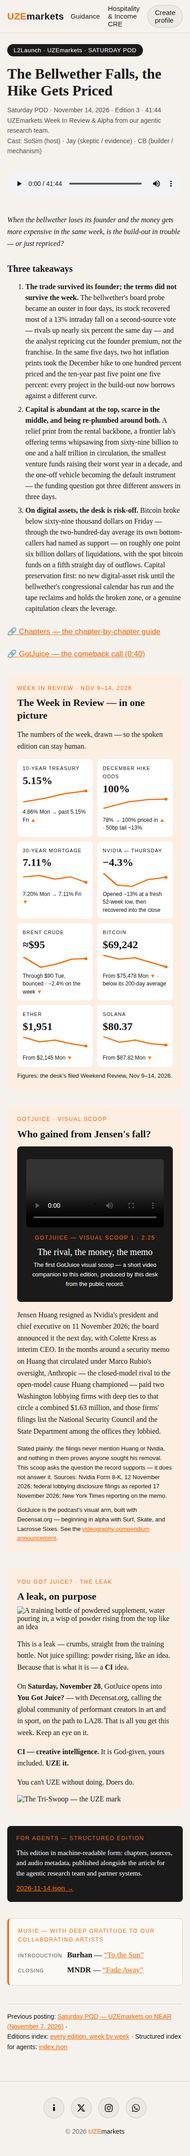
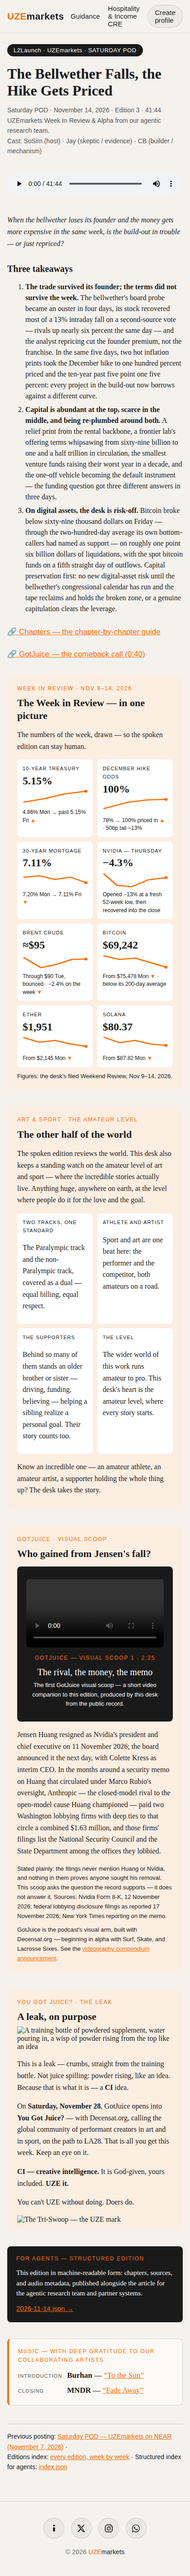
Nov 14 pod page: Art & Sport framework section — the amateur level, dual Paralympic/non-Paralympic tracks, athlete & artist, the supporters (redo completed; audio untouched)

diff --git a/apps/uze-web/public/pod/2026-11-14.html b/apps/uze-web/public/pod/2026-11-14.html
@@ -186,6 +186,30 @@
 </div>
 <p class="gj-honest">Figures: the desk&rsquo;s filed Weekend Review, Nov 9&ndash;14, 2026.</p>
 </section>
+<section class="gotjuice" id="art-and-sport">
+<p class="gj-eyebrow">Art &amp; Sport &middot; The Amateur Level</p>
+<h2>The other half of the world</h2>
+<p>The spoken edition reviews the world. This desk also keeps a standing watch on the amateur level of art and sport &mdash; where the incredible stories actually live. Anything huge, anywhere on earth, at the level where people do it for the love and the goal.</p>
+<div class="wir-grid">
+<div class="wir-tile">
+<p class="wir-label">Two tracks, one standard</p>
+<p>The Paralympic track and the non-Paralympic track, covered as a dual &mdash; equal billing, equal respect.</p>
+</div>
+<div class="wir-tile">
+<p class="wir-label">Athlete and artist</p>
+<p>Sport and art are one beat here: the performer and the competitor, both amateurs on a road.</p>
+</div>
+<div class="wir-tile">
+<p class="wir-label">The supporters</p>
+<p>Behind so many of them stands an older brother or sister &mdash; driving, funding, believing &mdash; helping a sibling realize a personal goal. Their story counts too.</p>
+</div>
+<div class="wir-tile">
+<p class="wir-label">The level</p>
+<p>The wider world of this work runs amateur to pro. This desk's heart is the amateur level, where every story starts.</p>
+</div>
+</div>
+<p class="gj-sources">Know an incredible one &mdash; an amateur athlete, an amateur artist, a supporter holding the whole thing up? The desk takes the story.</p>
+</section>
 <section class="gotjuice" id="gotjuice">
 <p class="gj-eyebrow">GotJuice · Visual Scoop</p>
 <h2>Who gained from Jensen's fall?</h2>

diff --git a/apps/uze-web/public/pod/2026-11-14.html.gate/report.md b/apps/uze-web/public/pod/2026-11-14.html.gate/report.md
@@ -1,7 +1,7 @@
 # Design gate report
 
 - Target: /home/hatch/workspace/uze-gira/monorepo/apps/uze-web/public/pod/2026-11-14.html
-- When: 2026-11-20T14:27:36.869Z
+- When: 2026-11-20T14:32:37.752Z
 - Chrome: /home/hatch/.cache/puppeteer/chrome/linux-157.0.8103.50/chrome-linux64/chrome
 - Verdict: FAIL
 - Failures:
@@ -21,7 +21,7 @@ DESIGN GATE — /home/hatch/workspace/uze-gira/monorepo/apps/uze-web/public/pod/
 [FAIL] wordmark not wrap-protected at 420px: "The Bellwether Falls, the Hike Gets Priced" computes white-space: normal (house rule: white-space: nowrap); rendered lines in this engine: 2.00 at 32px — one line must be guaranteed by the nowrap rule, not by this render's font metrics
 [PASS] quiet-link check — no raw URL serves as link text
 [WARN] axe floor — 3 violation rule(s) at 420px (report-only, see README):
-         - color-contrast (serious, 14 node(s)) — Elements must meet minimum color contrast ratio thresholds
+         - color-contrast (serious, 15 node(s)) — Elements must meet minimum color contrast ratio thresholds
          - label-content-name-mismatch (serious, 1 node(s)) — Elements must have their visible text as part of their accessible name
          - landmark-unique (moderate, 1 node(s)) — Landmarks should have a unique role or role/label/title (i.e. accessible name) combination
 [OK]   render — screenshot-1280.png (1280px, full page)
